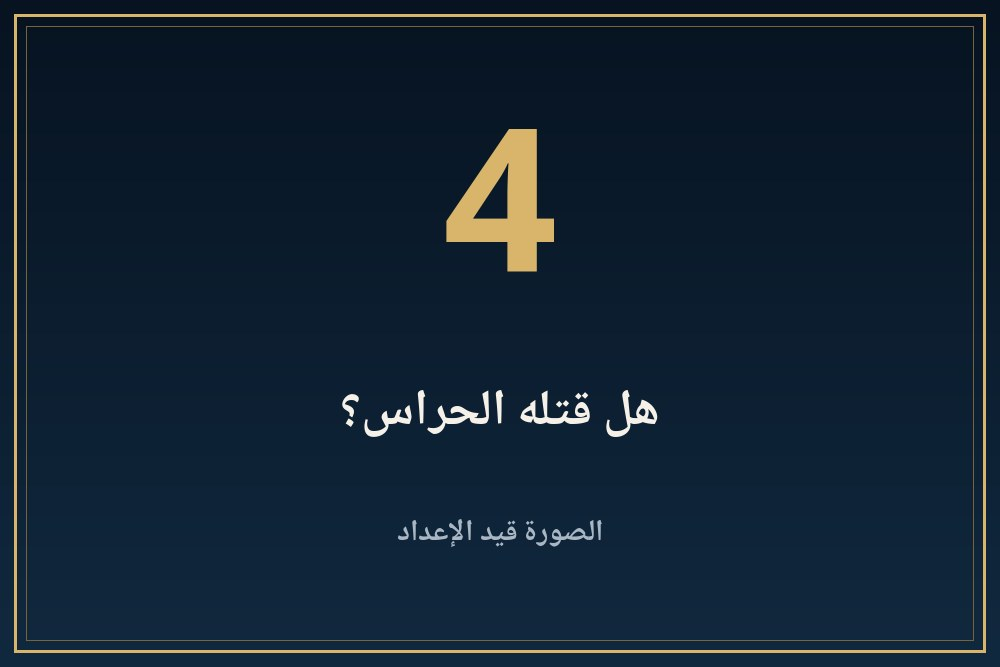
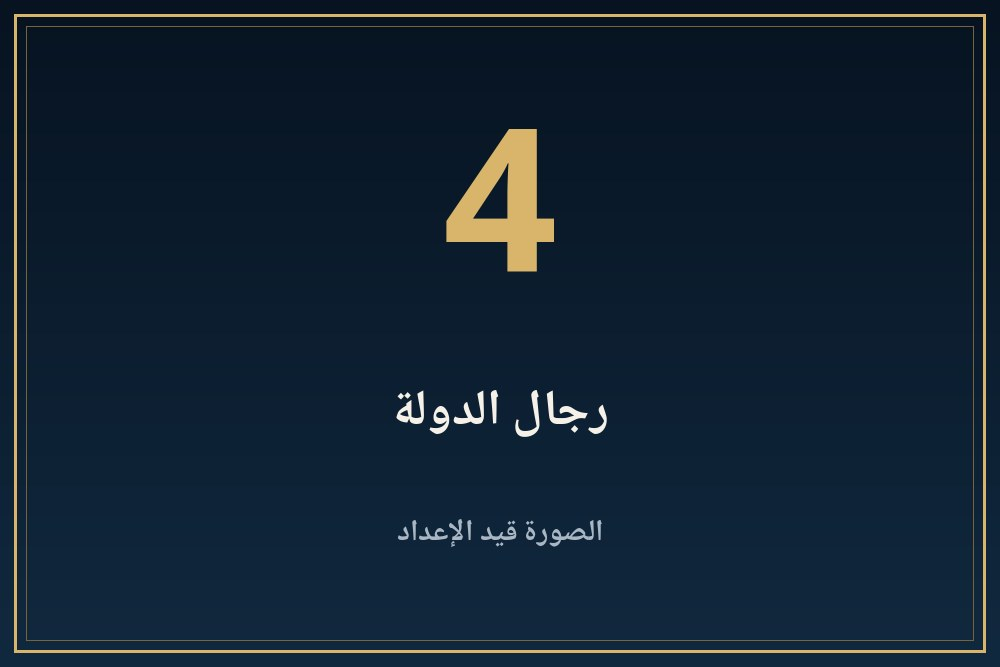
King 031: rebuilt from updated content (placeholders, audio pending)

Changed region(s): [[0.341, 0.5697, 0.682, 0.6597]]

diff --git a/kings/031-tyty/index.html b/kings/031-tyty/index.html
@@ -324,7 +324,7 @@ html[dir=ltr] #panav.open,#pash[dir=ltr] #panav.open{border-right:0!important;bo
 <div class="row"><span class="bdg v">موثّق</span><span>مذكور في مصدر مرقّم يمكن فتحه من قسم المراجع.</span></div>
 <div class="row"><span class="bdg d">محل خلاف</span><span>الصفحة نفسها تذكر أن الباحثين أو المصادر مختلفون فيه.</span></div>
 <div class="row"><span class="bdg u">لم يُتحقق منه</span><span>الصفحة تذكر أنه من مصدر واحد ولم يُتحقق منه في مصدر ثانٍ.</span></div></div>
-<div class="band" aria-hidden="true"></div><details class="acc k1" id="s1"><summary><img class="bnr" src="banners/b01.jpg?v=1" alt="" width="1000" height="667"><span class="n">1</span><span class="t">من هو تيتي؟</span><span class="ch"></span></summary><div class="body"><button class="lbtn" type="button" disabled aria-disabled="true" style="opacity:.55;cursor:default"><svg viewBox="0 0 24 24" fill="currentColor" aria-hidden="true"><path d="M7 4.5v15a1 1 0 001.5.86l12-7.5a1 1 0 000-1.72l-12-7.5A1 1 0 007 4.5z"/></svg><span>التعليق الصوتي قريبًا</span></button><p><span class="bdg v">موثّق</span> يذكر سليم حسن (ج1 ص273-274) أنه «سحتب تاوي تيتي»، مؤسس الأسرة السادسة.<sup><a href="#r1">[1]</a></sup></p></div></details><details class="acc k2" id="s2"><summary><img class="bnr" src="banners/b02.jpg?v=1" alt="" loading="lazy" width="1000" height="667"><span class="n">2</span><span class="t">القناع</span><span class="ch"></span></summary><div class="body"><button class="lbtn" type="button" disabled aria-disabled="true" style="opacity:.55;cursor:default"><svg viewBox="0 0 24 24" fill="currentColor" aria-hidden="true"><path d="M7 4.5v15a1 1 0 001.5.86l12-7.5a1 1 0 000-1.72l-12-7.5A1 1 0 007 4.5z"/></svg><span>التعليق الصوتي قريبًا</span></button><p><span class="bdg v">موثّق</span> يقول سليم حسن إن القناع الذي وجده كويبل يدل على «رجل ناعم الخلق رقيق العاطفة» (ص273-274). وهذا تأويل سليم حسن لا نص.<sup><a href="#r1">[1]</a></sup></p></div></details><details class="acc k3" id="s3"><summary><img class="bnr" src="banners/b03.jpg?v=1" alt="" loading="lazy" width="1000" height="667"><span class="n">3</span><span class="t">ميل الأسرة إلى بتاح</span><span class="ch"></span></summary><div class="body"><button class="lbtn" type="button" disabled aria-disabled="true" style="opacity:.55;cursor:default"><svg viewBox="0 0 24 24" fill="currentColor" aria-hidden="true"><path d="M7 4.5v15a1 1 0 001.5.86l12-7.5a1 1 0 000-1.72l-12-7.5A1 1 0 007 4.5z"/></svg><span>التعليق الصوتي قريبًا</span></button><p><span class="bdg v">موثّق</span> يقول سليم حسن (ص273-274) إن لأسرته ميلا إلى بتاح في منف مقابل عين شمس، ويذكر وثيقتين لكبير كهنة بتاح وتمثالا «محبوب بتاح».<sup><a href="#r1">[1]</a></sup></p></div></details><details class="acc k4" id="s4"><summary><img class="bnr" src="banners/b04.jpg?v=1" alt="" loading="lazy" width="1000" height="667"><span class="n">4</span><span class="t">هل قتله الحراس؟</span><span class="ch"></span></summary><div class="body"><button class="lbtn" type="button" disabled aria-disabled="true" style="opacity:.55;cursor:default"><svg viewBox="0 0 24 24" fill="currentColor" aria-hidden="true"><path d="M7 4.5v15a1 1 0 001.5.86l12-7.5a1 1 0 000-1.72l-12-7.5A1 1 0 007 4.5z"/></svg><span>التعليق الصوتي قريبًا</span></button><p><span class="bdg d">محل خلاف</span> يقول سليم حسن (ص273-274) إن هرمه نُهب وحُرق ولم يبق من جسمه إلا ذراع وكتف، وإن مانيتون ذكر أن الحراس قتلوه، لكن «ليس لدينا ما يثبت ذلك».<sup><a href="#r1">[1]</a></sup></p></div></details><details class="acc k1" id="s5"><summary><img class="bnr" src="banners/b05.jpg?v=1" alt="" loading="lazy" width="1000" height="667"><span class="n">5</span><span class="t">ما لا نعرفه</span><span class="ch"></span></summary><div class="body"><button class="lbtn" type="button" disabled aria-disabled="true" style="opacity:.55;cursor:default"><svg viewBox="0 0 24 24" fill="currentColor" aria-hidden="true"><path d="M7 4.5v15a1 1 0 001.5.86l12-7.5a1 1 0 000-1.72l-12-7.5A1 1 0 007 4.5z"/></svg><span>التعليق الصوتي قريبًا</span></button><p><span class="bdg u">لم يُتحقق منه</span> لم نقرأ في مصادرنا تفاصيل أخرى بنص مضمون، وسنضيف ما نقرؤه من مصادر موثوقة.</p></div></details><details class="acc k4" id="refs"><summary><img class="bnr" src="banners/b06.jpg?v=1" alt="" loading="lazy" width="1000" height="667"><span class="n">6</span><span class="t">المراجع</span><span class="ch"></span></summary><div class="body"><button class="lbtn" type="button" disabled aria-disabled="true" style="opacity:.55;cursor:default"><svg viewBox="0 0 24 24" fill="currentColor" aria-hidden="true"><path d="M7 4.5v15a1 1 0 001.5.86l12-7.5a1 1 0 000-1.72l-12-7.5A1 1 0 007 4.5z"/></svg><span>التعليق الصوتي قريبًا</span></button><p><b>مصادر فتحتُ صفحاتها وقرأتها:</b></p><ol><li id="r1" dir="auto">سليم حسن، موسوعة مصر القديمة، ج1، الفصل 15: <a dir="ltr" style="display:inline-block;overflow-wrap:anywhere" href="https://archive.org/details/20201104_20201104_1559" rel="noopener" target="_blank">archive.org/details/20201104_20201104_1559</a></li></ol><div class="flag"><b>تنبيه:</b> عدد المصادر المصرية المفتوحة لهذه الصفحة واحد فقط. لا نضيف تفاصيل لم تثبت في مصدر فتحناه وقرأنا نصه، وحيث يختلف المصدران ننسب كل رأي لصاحبه.</div></div></details></article><aside class="abt" aria-label="عن هذه الصفحة"><h3>عن هذه الصفحة</h3><ul><li><b>المحتوى</b><span>جزء من موسوعة بر عنخ التعليمية. التواريخ والتفسيرات وفق المراجع المتاحة، وقد تختلف التفاصيل بين الدراسات.</span></li><li><b>الصور</b><span>صور هذه الصفحة أماكن حجز مؤقتة إلى أن تُضاف الصور الفنية.</span></li><li><b>الصوت</b><span>التعليق الصوتي قيد الإعداد.</span></li></ul></aside><a class="back" href="/kings/">← تصفح المزيد</a><a class="back" href="/">العودة إلى الرئيسية</a><dialog id="lb"><img alt=""><p></p><button type="button">إغلاق</button></dialog>
+<div class="band" aria-hidden="true"></div><details class="acc k1" id="s1"><summary><img class="bnr" src="banners/b01.jpg?v=1" alt="" width="1000" height="667"><span class="n">1</span><span class="t">من هو تيتي؟</span><span class="ch"></span></summary><div class="body"><button class="lbtn" type="button" disabled aria-disabled="true" style="opacity:.55;cursor:default"><svg viewBox="0 0 24 24" fill="currentColor" aria-hidden="true"><path d="M7 4.5v15a1 1 0 001.5.86l12-7.5a1 1 0 000-1.72l-12-7.5A1 1 0 007 4.5z"/></svg><span>التعليق الصوتي قريبًا</span></button><p><span class="bdg v">موثّق</span> يقول كتاب الميت (ص35) إن تيتي، اسمه الحوري «سحتب تاوي» أي «مُهدئ الأرضين»، جاء إلى العرش في ظروف غير مؤكدة، لكن توليه لا يبدو عنيفا. ويقول صالح (ص214) إنه رأس الأسرة السادسة وأقام هرمه في سقارة. ويقول سليم حسن (ص273-274) إنه «سحتب تاوي تيتي» مؤسس الأسرة.<sup><a href="#r1">[1]</a><a href="#r2">[2]</a><a href="#r3">[3]</a></sup></p></div></details><details class="acc k2" id="s2"><summary><img class="bnr" src="banners/b02.jpg?v=1" alt="" loading="lazy" width="1000" height="667"><span class="n">2</span><span class="t">كم حكم؟</span><span class="ch"></span></summary><div class="body"><button class="lbtn" type="button" disabled aria-disabled="true" style="opacity:.55;cursor:default"><svg viewBox="0 0 24 24" fill="currentColor" aria-hidden="true"><path d="M7 4.5v15a1 1 0 001.5.86l12-7.5a1 1 0 000-1.72l-12-7.5A1 1 0 007 4.5z"/></svg><span>التعليق الصوتي قريبًا</span></button><p><span class="bdg d">محل خلاف</span> يقول كتاب الميت (ص35) إن تقليد مانيتون ينسب إليه ثلاثين سنة على الأقل، وإن حجر بالرمو يعطيه ستة إحصاءات للماشية كل سنتين، أي اثنتي عشرة أو ثلاث عشرة سنة. لكن الكتاب نفسه يقول (ص374) إن آخر ملك مذكور في حجر بالرمو هو نفر إر كا رع، فنذكر أن نسبة هذا الرقم إلى حجر بالرمو عند كتاب الميت تحتاج مراجعة قبل اعتمادها.<sup><a href="#r3">[3]</a></sup></p></div></details><details class="acc k3" id="s3"><summary><img class="bnr" src="banners/b03.jpg?v=1" alt="" loading="lazy" width="1000" height="667"><span class="n">3</span><span class="t">نصوص هرمه</span><span class="ch"></span></summary><div class="body"><button class="lbtn" type="button" disabled aria-disabled="true" style="opacity:.55;cursor:default"><svg viewBox="0 0 24 24" fill="currentColor" aria-hidden="true"><path d="M7 4.5v15a1 1 0 001.5.86l12-7.5a1 1 0 000-1.72l-12-7.5A1 1 0 007 4.5z"/></svg><span>التعليق الصوتي قريبًا</span></button><p><span class="bdg v">موثّق</span> يقول صالح (ص214) إن هرم تيتي في سقارة تضمن نصوصا لا تختلف عن نصوص هرم ونيس إلا في زيادة الاهتمام بأوزير وتشبيه الملك المتوفى به. ويقول كتاب الميت (ص35) إن الجدران ما زالت منقوشة بمتون الأهرام، وإن أهم التغيير منع صور ست دون اسمه وتجنب بعض العلامات.<sup><a href="#r2">[2]</a><a href="#r3">[3]</a></sup></p></div></details><details class="acc k4" id="s4"><summary><img class="bnr" src="banners/b04.jpg?v=1" alt="" loading="lazy" width="1000" height="667"><span class="n">4</span><span class="t">رجال الدولة</span><span class="ch"></span></summary><div class="body"><button class="lbtn" type="button" disabled aria-disabled="true" style="opacity:.55;cursor:default"><svg viewBox="0 0 24 24" fill="currentColor" aria-hidden="true"><path d="M7 4.5v15a1 1 0 001.5.86l12-7.5a1 1 0 000-1.72l-12-7.5A1 1 0 007 4.5z"/></svg><span>التعليق الصوتي قريبًا</span></button><p><span class="bdg v">موثّق</span> يقول كتاب الميت (ص35) إن أعيان عهد ونيس واصلوا الخدمة في عهده. ويقول صالح (ص215) إن بعض الملوك زوّجوا بناتهم من صفوة الموظفين، مثل مررو كا زوج ابنة تيتي. ويقول كتاب الميت (ص34) إن كا جمني بدأ مع إسيسي وختم حياته في عهد تيتي.<sup><a href="#r2">[2]</a><a href="#r3">[3]</a></sup></p></div></details><details class="acc k1" id="s5"><summary><img class="bnr" src="banners/b05.jpg?v=1" alt="" loading="lazy" width="1000" height="667"><span class="n">5</span><span class="t">بردية طبية</span><span class="ch"></span></summary><div class="body"><button class="lbtn" type="button" disabled aria-disabled="true" style="opacity:.55;cursor:default"><svg viewBox="0 0 24 24" fill="currentColor" aria-hidden="true"><path d="M7 4.5v15a1 1 0 001.5.86l12-7.5a1 1 0 000-1.72l-12-7.5A1 1 0 007 4.5z"/></svg><span>التعليق الصوتي قريبًا</span></button><p><span class="bdg v">موثّق</span> يقول صالح (ص214) إن بردية طبية كبيرة احتفظت بتفاصيل عقاقير لتقوية بصيلات الشعر صُنع أحدها لأمه شيشي أو من أجلها، وألّف بقيتها كبير الأطباء خوي.<sup><a href="#r2">[2]</a></sup></p></div></details><details class="acc k2" id="s6"><summary><img class="bnr" src="banners/b06.jpg?v=1" alt="" loading="lazy" width="1000" height="667"><span class="n">6</span><span class="t">هل قُتل؟</span><span class="ch"></span></summary><div class="body"><button class="lbtn" type="button" disabled aria-disabled="true" style="opacity:.55;cursor:default"><svg viewBox="0 0 24 24" fill="currentColor" aria-hidden="true"><path d="M7 4.5v15a1 1 0 001.5.86l12-7.5a1 1 0 000-1.72l-12-7.5A1 1 0 007 4.5z"/></svg><span>التعليق الصوتي قريبًا</span></button><p><span class="bdg d">محل خلاف</span> يقول سليم حسن (ص273-274) إن هرمه نُهب وحُرق، وإن مانيتون ذكر أن الحراس قتلوه، لكن «ليس لدينا ما يثبت ذلك». ويقول صالح (ص214) إنه «يبدو» أنه تعرض لمؤامرة في نهاية حياته. ويتساءل كتاب الميت (ص35): هل كان وسر كا رع، الملك الذي بين تيتي وبيبي الأول، مسؤولا عن مقتل تيتي الذي ذكره مانيتون؟ فالأقوال ظنون لا ثبوت لها.<sup><a href="#r1">[1]</a><a href="#r2">[2]</a><a href="#r3">[3]</a></sup></p></div></details><details class="acc k3" id="s7"><summary><img class="bnr" src="banners/b07.jpg?v=1" alt="" loading="lazy" width="1000" height="667"><span class="n">7</span><span class="t">قناع الوجه</span><span class="ch"></span></summary><div class="body"><button class="lbtn" type="button" disabled aria-disabled="true" style="opacity:.55;cursor:default"><svg viewBox="0 0 24 24" fill="currentColor" aria-hidden="true"><path d="M7 4.5v15a1 1 0 001.5.86l12-7.5a1 1 0 000-1.72l-12-7.5A1 1 0 007 4.5z"/></svg><span>التعليق الصوتي قريبًا</span></button><p><span class="bdg d">محل خلاف</span> يقول سليم حسن (ص273-274) إن القناع الذي وجده كويبل يدل على «رجل ناعم الخلق رقيق العاطفة». وهذا تأويله لا نص.<sup><a href="#r1">[1]</a></sup></p></div></details><details class="acc k4" id="s8"><summary><img class="bnr" src="banners/b08.jpg?v=1" alt="" loading="lazy" width="1000" height="667"><span class="n">8</span><span class="t">ميل الأسرة إلى بتاح</span><span class="ch"></span></summary><div class="body"><button class="lbtn" type="button" disabled aria-disabled="true" style="opacity:.55;cursor:default"><svg viewBox="0 0 24 24" fill="currentColor" aria-hidden="true"><path d="M7 4.5v15a1 1 0 001.5.86l12-7.5a1 1 0 000-1.72l-12-7.5A1 1 0 007 4.5z"/></svg><span>التعليق الصوتي قريبًا</span></button><p><span class="bdg d">محل خلاف</span> يقول سليم حسن (ص273-274) إن لأسرته ميلا إلى بتاح في منف مقابل عين شمس، ويذكر تمثالا «محبوب بتاح».<sup><a href="#r1">[1]</a></sup></p></div></details><details class="acc k1" id="s9"><summary><img class="bnr" src="banners/b09.jpg?v=1" alt="" loading="lazy" width="1000" height="667"><span class="n">9</span><span class="t">ما لا نعرفه</span><span class="ch"></span></summary><div class="body"><button class="lbtn" type="button" disabled aria-disabled="true" style="opacity:.55;cursor:default"><svg viewBox="0 0 24 24" fill="currentColor" aria-hidden="true"><path d="M7 4.5v15a1 1 0 001.5.86l12-7.5a1 1 0 000-1.72l-12-7.5A1 1 0 007 4.5z"/></svg><span>التعليق الصوتي قريبًا</span></button><p><span class="bdg u">لم يُتحقق منه</span> لا نعرف مدة حكمه بيقين (12 أو 13 أو 30 سنة بحسب المصدر)، ولا حقيقة مقتله، ولا تفاصيل المؤامرة التي تذكرها المصادر. وأرقام قائمة نور الدين (ص715) لا تتضح لنا في نسختنا.</p></div></details><details class="acc k4" id="refs"><summary><img class="bnr" src="banners/b10.jpg?v=1" alt="" loading="lazy" width="1000" height="667"><span class="n">10</span><span class="t">المراجع</span><span class="ch"></span></summary><div class="body"><button class="lbtn" type="button" disabled aria-disabled="true" style="opacity:.55;cursor:default"><svg viewBox="0 0 24 24" fill="currentColor" aria-hidden="true"><path d="M7 4.5v15a1 1 0 001.5.86l12-7.5a1 1 0 000-1.72l-12-7.5A1 1 0 007 4.5z"/></svg><span>التعليق الصوتي قريبًا</span></button><p><b>مصادر فتحتُ صفحاتها وقرأتها:</b></p><ol><li id="r1" dir="auto">سليم حسن، موسوعة مصر القديمة، ج1، الفصل 15: <a dir="ltr" style="display:inline-block;overflow-wrap:anywhere" href="https://archive.org/details/20201104_20201104_1559" rel="noopener" target="_blank">archive.org/details/20201104_20201104_1559</a></li><li id="r2" dir="auto">عبد العزيز صالح، الشرق الأدنى القديم ج1 (مصر والعراق)، أرقام صفحات PDF: <a dir="ltr" style="display:inline-block;overflow-wrap:anywhere" href="https://archive.org/details/20210510_20210510_0037" rel="noopener" target="_blank">archive.org/details/20210510_20210510_0037</a></li><li id="r3" dir="auto">The Metropolitan Museum of Art, Egyptian Art in the Age of the Pyramids, 1999 (فصول كوزلوف وأرنولد وزيجلر وجريمال): <a dir="ltr" style="display:inline-block;overflow-wrap:anywhere" href="https://www.metmuseum.org/met-publications/egyptian-art-in-the-age-of-the-pyramids" rel="noopener" target="_blank">www.metmuseum.org/met-publications/egyptian-art-in-the-age-of-the-pyramids</a></li></ol></div></details></article><aside class="abt" aria-label="عن هذه الصفحة"><h3>عن هذه الصفحة</h3><ul><li><b>المحتوى</b><span>جزء من موسوعة بر عنخ التعليمية. التواريخ والتفسيرات وفق المراجع المتاحة، وقد تختلف التفاصيل بين الدراسات.</span></li><li><b>الصور</b><span>صور هذه الصفحة أماكن حجز مؤقتة إلى أن تُضاف الصور الفنية.</span></li><li><b>الصوت</b><span>التعليق الصوتي قيد الإعداد.</span></li></ul></aside><a class="back" href="/kings/">← تصفح المزيد</a><a class="back" href="/">العودة إلى الرئيسية</a><dialog id="lb"><img alt=""><p></p><button type="button">إغلاق</button></dialog>
 <script>(function(){var A=function(){return document.querySelectorAll("details.acc")};
 document.getElementById("all").onclick=function(){A().forEach(function(d){d.open=true})};
 document.getElementById("none").onclick=function(){A().forEach(function(d){d.open=false})};
@@ -332,7 +332,7 @@ function go(h){var e=h&&document.getElementById(h.slice(1));if(!e)return;var d=e
 document.addEventListener("click",function(e){var a=e.target.closest&&e.target.closest('a[href^="#"]');if(a){go(a.getAttribute("href"))}});
 if(location.hash)go(location.hash);
 var d=document.getElementById("lb");if(!d||!d.showModal)return;var im=d.querySelector("img"),p=d.querySelector("p");document.addEventListener("click",function(e){var t=e.target;if(t.tagName=="IMG"&&t.closest(".fig")){im.src=t.src;im.alt=t.alt;p.textContent=t.closest("figure").querySelector("figcaption").innerText;d.showModal()}else if(t==d||t.tagName=="BUTTON"&&d.contains(t)){d.close()}})})();</script><div class="pbar" id="pbar"></div><div class="pl" id="pl" role="region" aria-label="مشغّل الاستماع"><div class="in"><button class="pp" id="pp" type="button" aria-label="تشغيل"><svg viewBox="0 0 24 24" fill="currentColor" aria-hidden="true"><path d="M7 4.5v15a1 1 0 001.5.86l12-7.5a1 1 0 000-1.72l-12-7.5A1 1 0 007 4.5z"/></svg></button><div class="mid"><div class="ttl"><span id="tt">استماع</span> <i>صوت اصطناعي</i></div><input id="sk" type="range" min="0" max="1000" value="0" aria-label="موضع التشغيل"><div class="tm"><span id="cur">0:00</span><span id="dur">0:00</span></div></div><div class="ex"><button id="bk" type="button" aria-label="رجوع 10 ثوانٍ">−10</button><button id="fw" type="button" aria-label="تقدم 10 ثوانٍ">+10</button><button id="sp" class="sp" type="button" aria-label="سرعة التشغيل">1×</button><button id="cl" type="button" aria-label="إغلاق المشغّل">✕</button></div><p class="err" id="er" role="alert" hidden>تعذر تحميل الملف الصوتي. حاول لاحقًا.</p></div><div aria-live="polite" id="st" style="position:absolute;left:-9999px"></div><audio id="au" preload="none"></audio></div></main><script>(function(){
-var S={"s1": ["من هو تيتي؟", 1], "s2": ["القناع", 1], "s3": ["ميل الأسرة إلى بتاح", 1], "s4": ["هل قتله الحراس؟", 1], "s5": ["ما لا نعرفه", 1], "refs": ["المراجع", 1]},$=function(i){return document.getElementById(i)},au=$("au"),pl=$("pl"),pp=$("pp"),sk=$("sk"),P="<svg viewBox=\"0 0 24 24\" fill=\"currentColor\" aria-hidden=\"true\"><path d=\"M7 4.5v15a1 1 0 001.5.86l12-7.5a1 1 0 000-1.72l-12-7.5A1 1 0 007 4.5z\"/></svg>",Q="<svg viewBox=\"0 0 24 24\" fill=\"currentColor\" aria-hidden=\"true\"><rect x=\"5.5\" y=\"4\" width=\"4.5\" height=\"16\" rx=\"1.2\"/><rect x=\"14\" y=\"4\" width=\"4.5\" height=\"16\" rx=\"1.2\"/></svg>",cur=null,part=1,seeking=false;
+var S={"s1": ["من هو تيتي؟", 1], "s2": ["كم حكم؟", 1], "s3": ["نصوص هرمه", 1], "s4": ["رجال الدولة", 1], "s5": ["بردية طبية", 1], "s6": ["هل قُتل؟", 1], "s7": ["قناع الوجه", 1], "s8": ["ميل الأسرة إلى بتاح", 1], "s9": ["ما لا نعرفه", 1], "refs": ["المراجع", 1]},$=function(i){return document.getElementById(i)},au=$("au"),pl=$("pl"),pp=$("pp"),sk=$("sk"),P="<svg viewBox=\"0 0 24 24\" fill=\"currentColor\" aria-hidden=\"true\"><path d=\"M7 4.5v15a1 1 0 001.5.86l12-7.5a1 1 0 000-1.72l-12-7.5A1 1 0 007 4.5z\"/></svg>",Q="<svg viewBox=\"0 0 24 24\" fill=\"currentColor\" aria-hidden=\"true\"><rect x=\"5.5\" y=\"4\" width=\"4.5\" height=\"16\" rx=\"1.2\"/><rect x=\"14\" y=\"4\" width=\"4.5\" height=\"16\" rx=\"1.2\"/></svg>",cur=null,part=1,seeking=false;
 function fmt(t){if(!isFinite(t))return"0:00";var m=Math.floor(t/60),s=Math.floor(t%60);return m+":"+(s<10?"0":"")+s}
 function btns(){document.querySelectorAll(".lbtn").forEach(function(b){var on=b.dataset.s===cur&&!au.paused;b.classList.toggle("on",on);b.querySelector("span").textContent=on?"إيقاف مؤقت":(b.dataset.s===cur&&au.currentTime>1?"أكمل الاستماع":"استمع لهذا القسم");b.querySelector("svg").outerHTML=on?Q:P})}
 function ui(){var pa=au.paused;pp.innerHTML=pa?P:Q;pp.setAttribute("aria-label",pa?"تشغيل":"إيقاف مؤقت");btns()}
